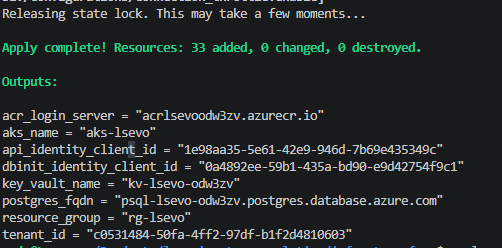
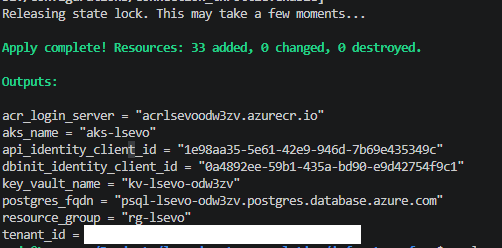
docs: hide tenant ID in p2-21, add known issues from the security review

Changed region(s): [[0.1494, 0.9032, 0.7171, 0.9879]]

diff --git a/README.md b/README.md
@@ -404,6 +404,8 @@ How to read the diagram:
 
 ## Known issues
 
+- The API has no authentication and no rate limiting. The original code only has TODO comments for them. Anyone who knows the public IP can read, create, change and delete entries, including `DELETE /entries`, which deletes all of them. In this project the data is test data only.
+- The image scan does not fail on High or Critical findings that have no fixed version yet (`--ignore-unfixed`), because there is nothing to update to. Without that option, Trivy still lists them.
 - The API uses plain HTTP on a public IP. There is no domain and no TLS certificate.
 - The AKS API and the Key Vault only accept my IP. If my IP changes, I have to update `terraform.tfvars` and run `terraform apply` before `kubectl` or Terraform work again.
 - The pipeline only changes the image of the Deployment. Changes to the Kubernetes manifests are applied by hand with `kubectl` from my IP.
